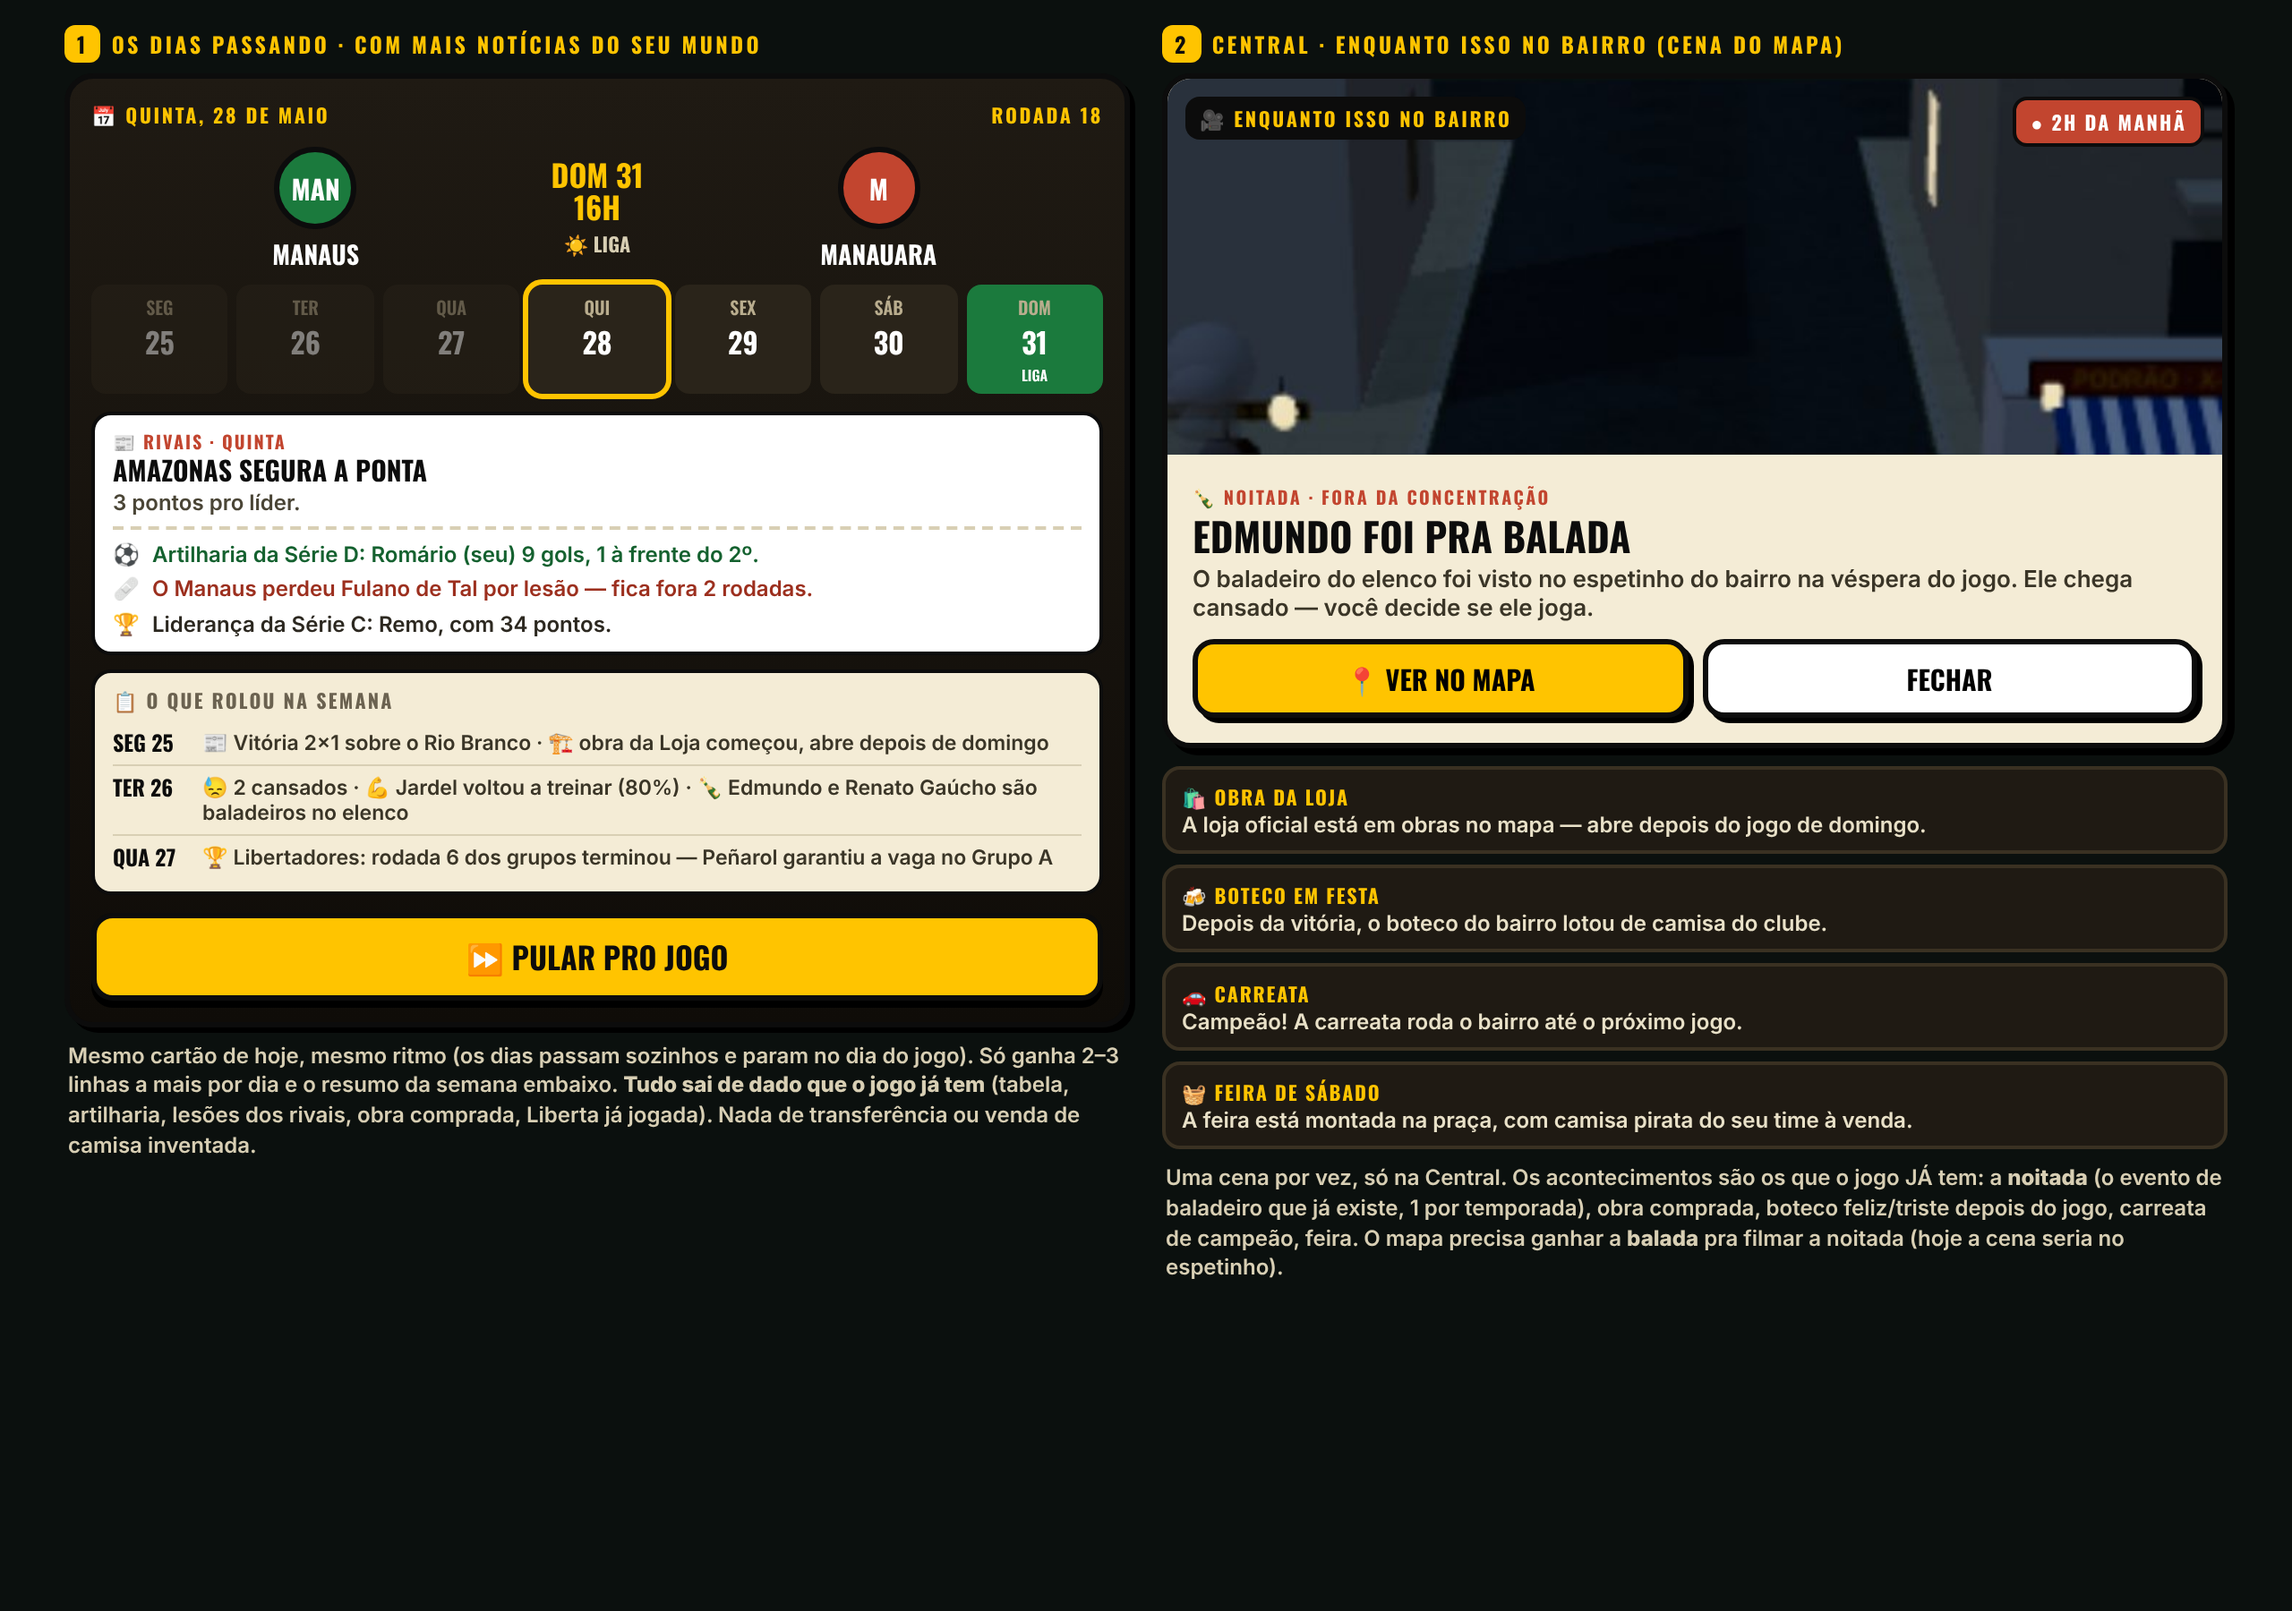
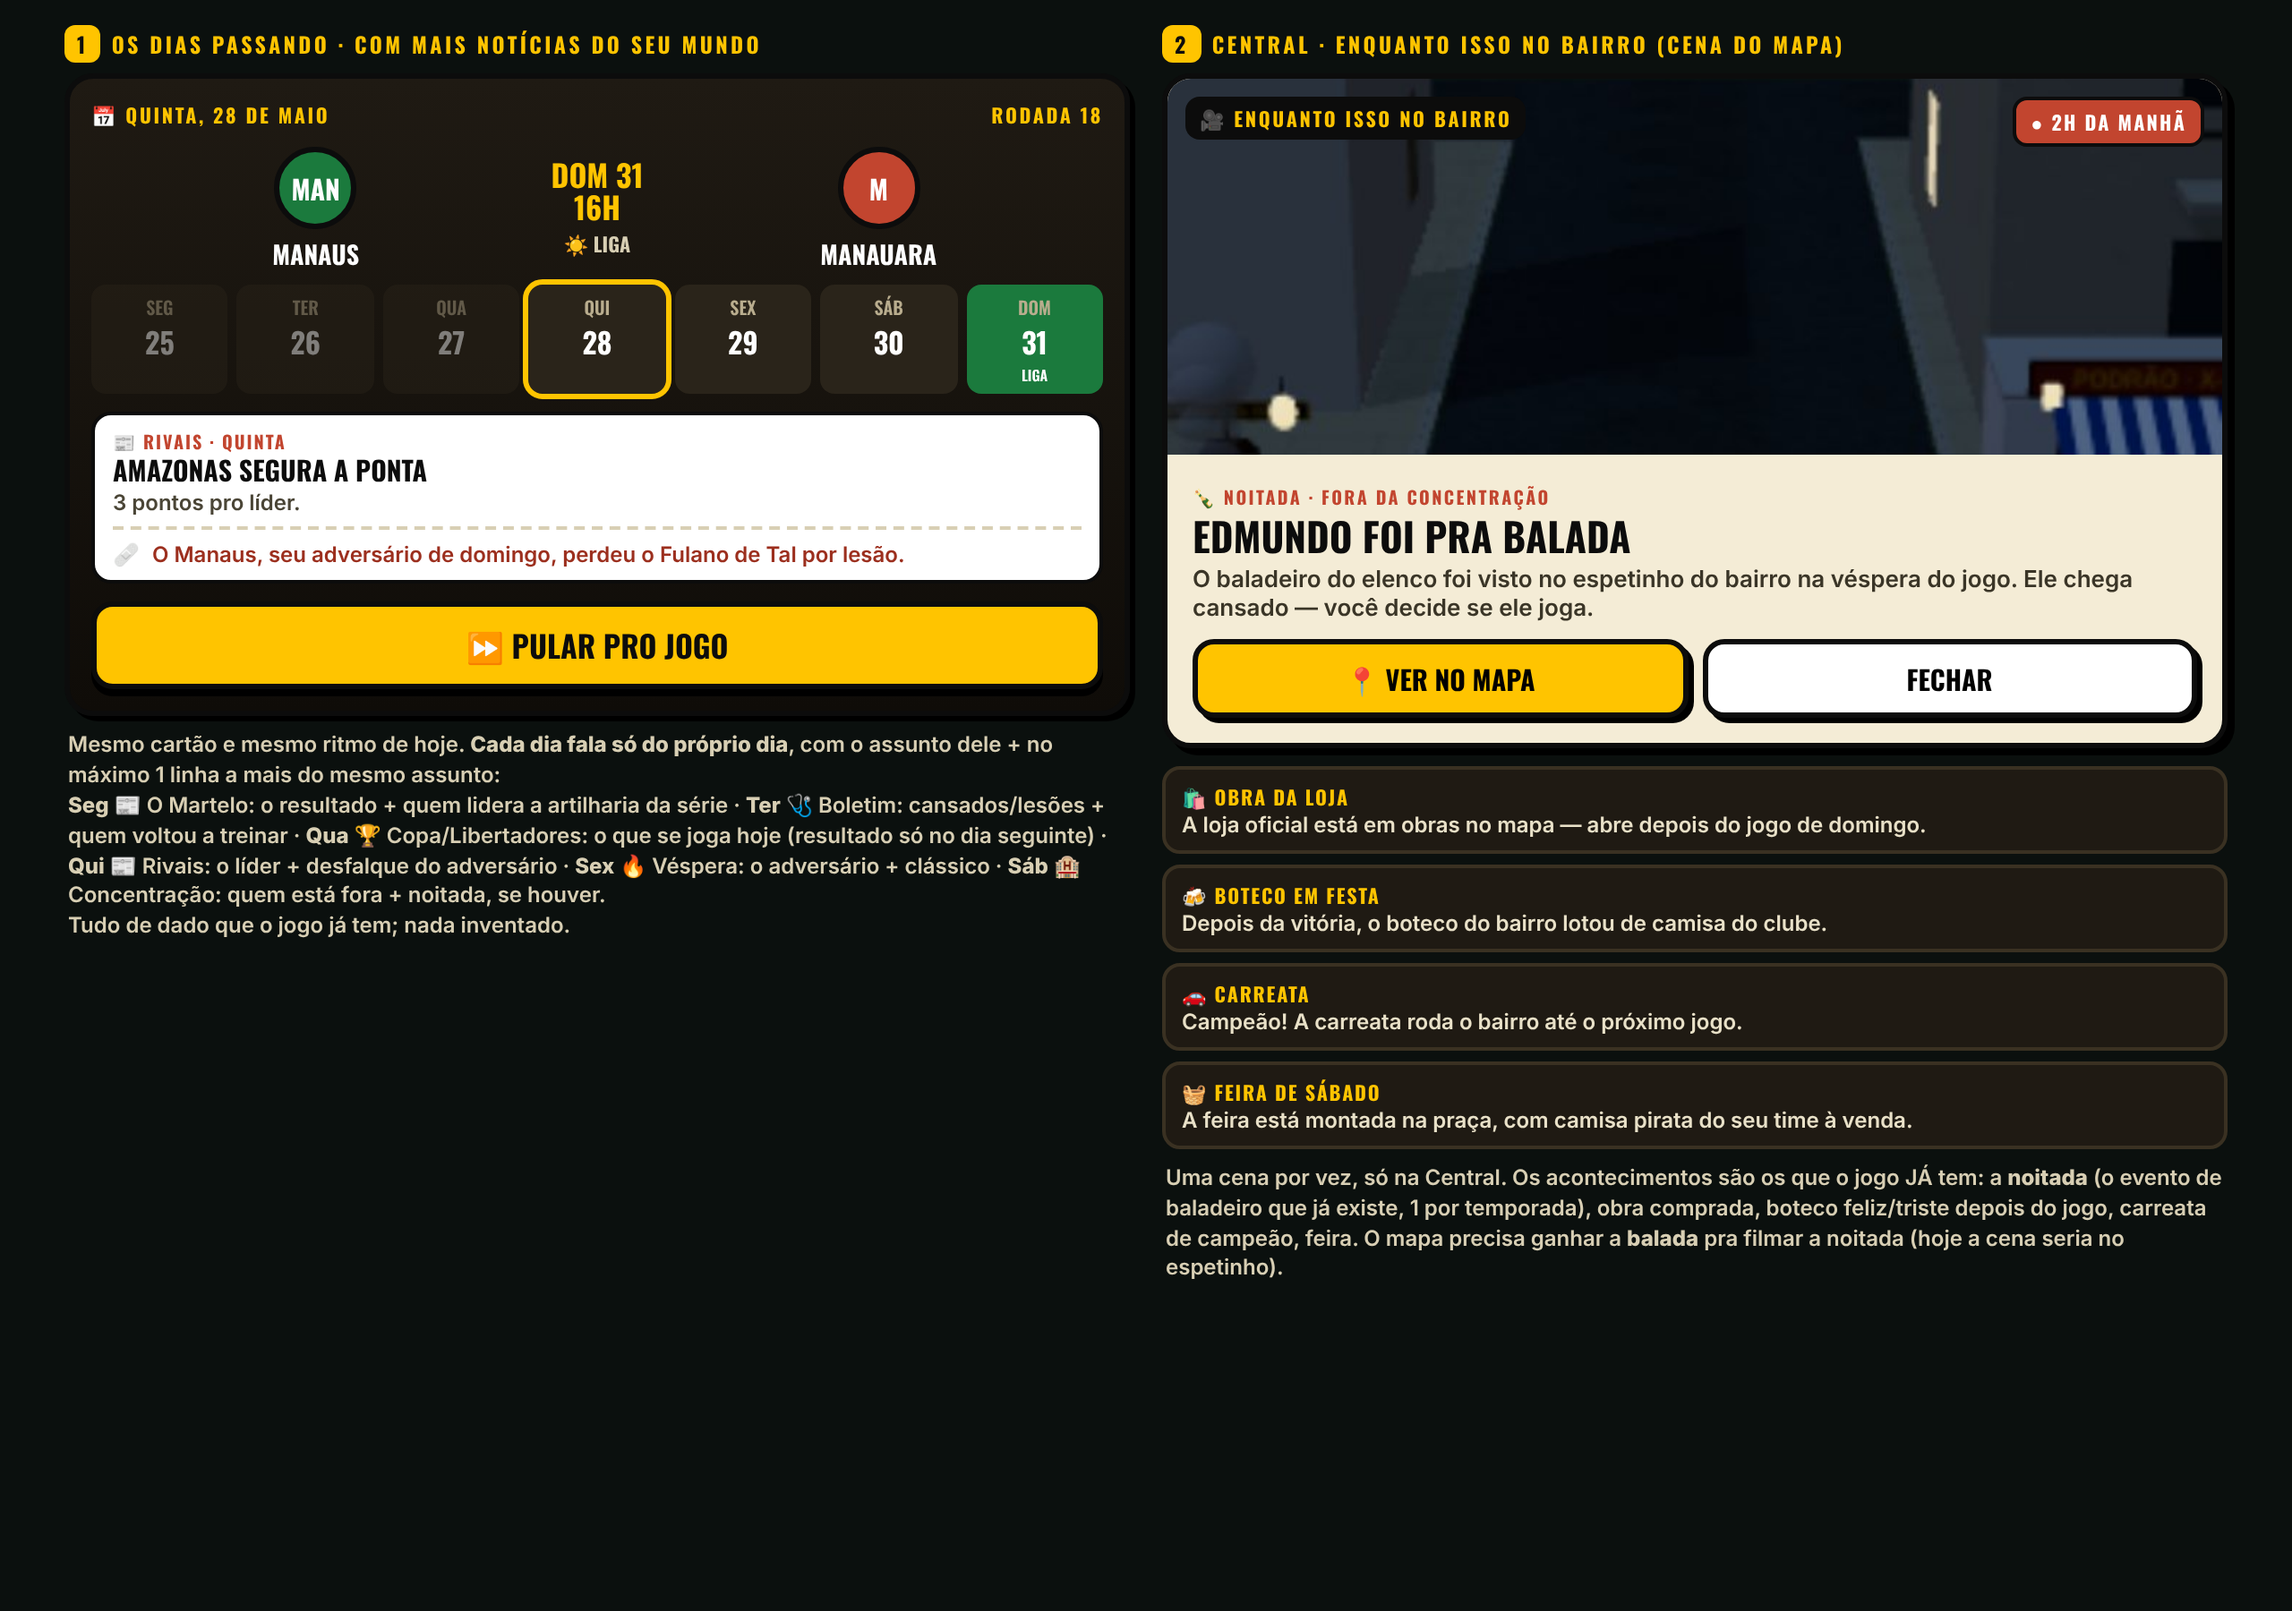
Mockup (2ª versão): cada dia da semana fala só do próprio dia — sem resumo dos dias anteriores
Claude-Session: https://claude.ai/code/session_018Ap1zPCMVL9XeZJN3u93ZA

Changed region(s): [[0.0312, 0.3422, 0.5, 0.6222], [0.0312, 0.6533, 0.4688, 0.7156]]

diff --git a/scripts/mockups/semana-e-sede.html b/scripts/mockups/semana-e-sede.html
@@ -52,19 +52,19 @@
  <div class="rec">
   <small>📰 Rivais · quinta</small><b>Amazonas segura a ponta</b><p>3 pontos pro líder.</p>
   <ul class="mais">
-   <li class="bom"><em>⚽</em>Artilharia da Série D: Romário (seu) 9 gols, 1 à frente do 2º.</li>
-   <li class="ruim"><em>🩹</em>O Manaus perdeu Fulano de Tal por lesão — fica fora 2 rodadas.</li>
-   <li><em>🏆</em>Liderança da Série C: Remo, com 34 pontos.</li>
+   <li class="ruim"><em>🩹</em>O Manaus, seu adversário de domingo, perdeu o Fulano de Tal por lesão.</li>
   </ul>
  </div>
- <div class="hist"><h5>📋 O que rolou na semana</h5>
-  <div class="dia"><b>Seg 25</b><span>📰 Vitória 2×1 sobre o Rio Branco · 🏗 obra da Loja começou, abre depois de domingo</span></div>
-  <div class="dia"><b>Ter 26</b><span>😓 2 cansados · 💪 Jardel voltou a treinar (80%) · 🍾 Edmundo e Renato Gaúcho são baladeiros no elenco</span></div>
-  <div class="dia"><b>Qua 27</b><span>🏆 Libertadores: rodada 6 dos grupos terminou — Peñarol garantiu a vaga no Grupo A</span></div>
- </div>
- <button class="go">⏩ Pular pro jogo</button>
+  <button class="go">⏩ Pular pro jogo</button>
 </div>
-<p class="nota">Mesmo cartão de hoje, mesmo ritmo (os dias passam sozinhos e param no dia do jogo). Só ganha 2–3 linhas a mais por dia e o resumo da semana embaixo. <b>Tudo sai de dado que o jogo já tem</b> (tabela, artilharia, lesões dos rivais, obra comprada, Liberta já jogada). Nada de transferência ou venda de camisa inventada.</p>
+<p class="nota">Mesmo cartão e mesmo ritmo de hoje. <b>Cada dia fala só do próprio dia</b>, com o assunto dele + no máximo 1 linha a mais do mesmo assunto:<br>
+<b>Seg</b> 📰 O Martelo: o resultado + quem lidera a artilharia da série ·
+<b>Ter</b> 🩺 Boletim: cansados/lesões + quem voltou a treinar ·
+<b>Qua</b> 🏆 Copa/Libertadores: o que se joga hoje (resultado só no dia seguinte) ·
+<b>Qui</b> 📰 Rivais: o líder + desfalque do adversário ·
+<b>Sex</b> 🔥 Véspera: o adversário + clássico ·
+<b>Sáb</b> 🏨 Concentração: quem está fora + noitada, se houver.<br>
+Tudo de dado que o jogo já tem; nada inventado.</p>
 </section>
 
 <section>
